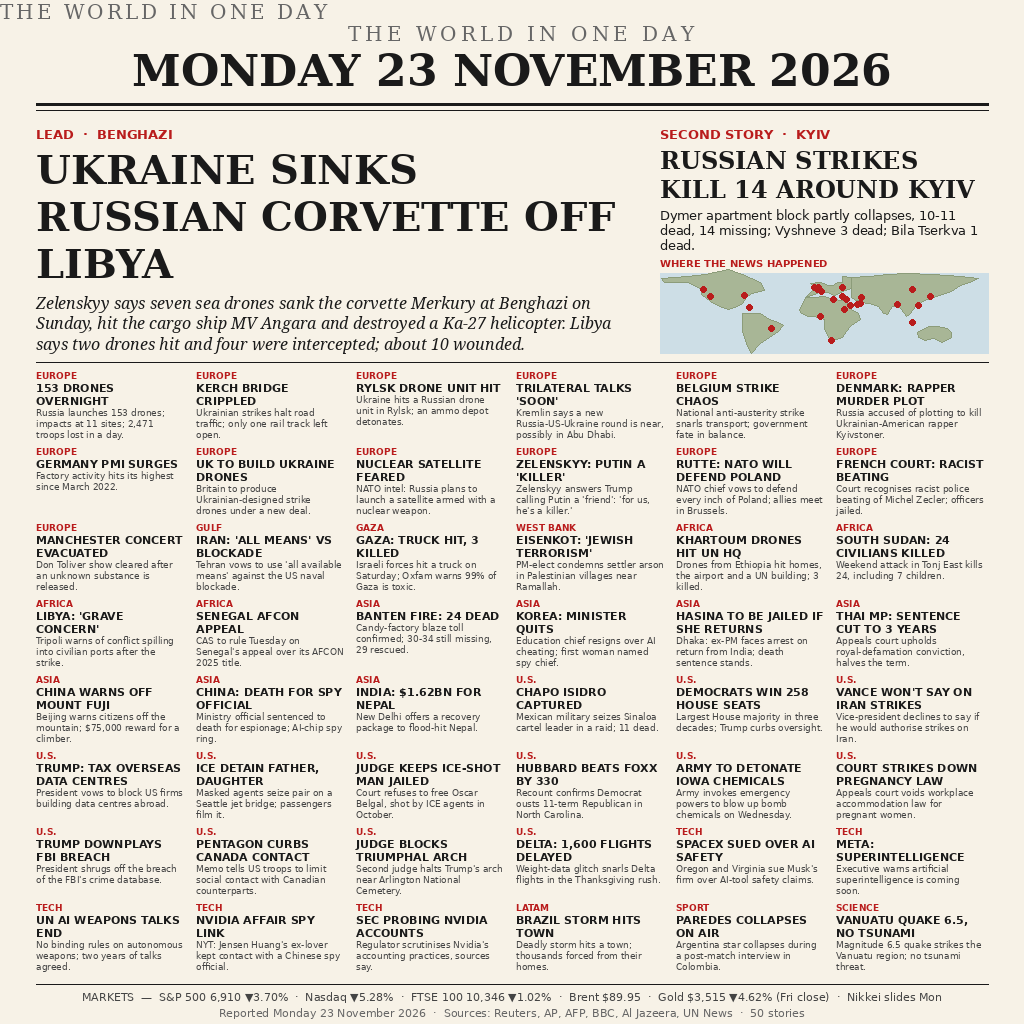
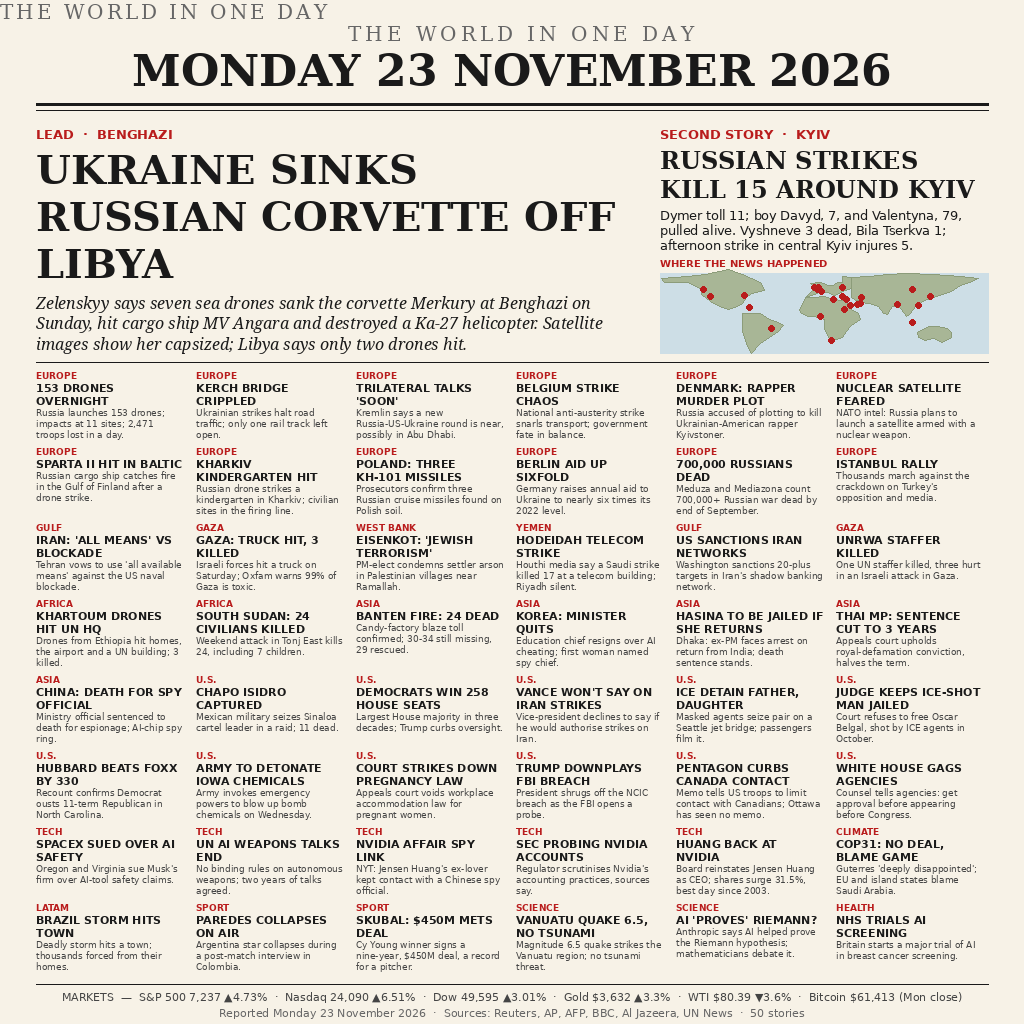
news-image-20261123 v2: full-day edition, 50 stories, Monday-close markets

Changed region(s): [[0.0312, 0.375, 0.9688, 1.0], [0.625, 0.1875, 0.9375, 0.25], [0.0312, 0.3125, 0.5938, 0.3438]]

diff --git a/README.md b/README.md
@@ -4,7 +4,7 @@
 [![rank](https://make.fun/badge/news-image-20261123/pytraaa9-ai/news-image-20261123/rank.svg)](https://make.fun/bounty/news-image-20261123/leaderboard?utm_source=github&utm_medium=readme&utm_campaign=news-image-20261123)
 [![reward](https://make.fun/badge/news-image-20261123/pytraaa9-ai/news-image-20261123/reward.svg)](https://make.fun/bounty/news-image-20261123?utm_source=github&utm_medium=readme&utm_campaign=news-image-20261123)
 
-A program that writes one image summing up Monday 23 November 2026 world news — a newspaper front page (1024×1024 PNG): lead story Ukraine sinks the Russian corvette Merkury off Libya, second story Russian strikes kill 14 around Kyiv, plus 48 more stories across six continents, a world map, and Friday's market close with Monday's Nikkei slide. Full-day edition, v1 — 50 stories.
+A program that writes one image summing up Monday 23 November 2026 world news — a newspaper front page (1024×1024 PNG): lead story Ukraine sinks the Russian corvette Merkury off Libya, second story Russian strikes kill 15 around Kyiv, plus 48 more stories across six continents, a world map, and Monday's market close with the Nvidia-led rebound. Full-day edition, v2 — 50 stories.
 
 ## Run it
 
@@ -14,56 +14,56 @@ mkdir -p out && MAKEFUN_OUTPUT_DIR=out python3 main.py
 
 ## The day's news
 
-- **Lead:** Ukraine sinks Russian corvette off Libya — Zelenskyy says seven sea drones sank the corvette Merkury at Benghazi on Sunday, hit the cargo ship MV Angara and destroyed a Ka-27 helicopter. Libya says two drones hit and four were intercepted; about 10 wounded.
-- **Second story:** Russian strikes kill 14 around Kyiv — Dymer apartment block partly collapses, 10-11 dead, 14 missing; Vyshneve 3 dead; Bila Tserkva 1 dead.
+- **Lead:** Ukraine sinks Russian corvette off Libya — Zelenskyy says seven sea drones sank the corvette Merkury at Benghazi on Sunday, hit cargo ship MV Angara and destroyed a Ka-27 helicopter. Satellite images show her capsized; Libya says only two drones hit.
+- **Second story:** Russian strikes kill 15 around Kyiv — Dymer toll 11; boy Davyd, 7, and Valentyna, 79, pulled alive. Vyshneve 3 dead, Bila Tserkva 1; afternoon strike in central Kyiv injures 5.
 - 153 drones overnight: Russia launches 153 drones; impacts at 11 sites; 2,471 troops lost in a day.
 - Kerch Bridge crippled: Ukrainian strikes halt road traffic; only one rail track left open.
-- Rylsk drone unit hit: Ukraine hits a Russian drone unit in Rylsk; an ammo depot detonates.
 - Trilateral talks 'soon': Kremlin says a new Russia-US-Ukraine round is near, possibly in Abu Dhabi.
 - Belgium strike chaos: National anti-austerity strike snarls transport; government fate in balance.
 - Denmark: rapper murder plot: Russia accused of plotting to kill Ukrainian-American rapper Kyivstoner.
-- Germany PMI surges: Factory activity hits its highest since March 2022.
-- UK to build Ukraine drones: Britain to produce Ukrainian-designed strike drones under a new deal.
 - Nuclear satellite feared: NATO intel: Russia plans to launch a satellite armed with a nuclear weapon.
-- Zelenskyy: Putin a 'killer': Zelenskyy answers Trump calling Putin a 'friend': 'for us, he's a killer.'
-- Rutte: NATO will defend Poland: NATO chief vows to defend every inch of Poland; allies meet in Brussels.
-- French court: racist beating: Court recognises racist police beating of Michel Zecler; officers jailed.
-- Manchester concert evacuated: Don Toliver show cleared after an unknown substance is released.
+- Sparta II hit in Baltic: Russian cargo ship catches fire in the Gulf of Finland after a drone strike.
+- Kharkiv kindergarten hit: Russian drone strikes a kindergarten in Kharkiv; civilian sites in the firing line.
+- Poland: three Kh-101 missiles: Prosecutors confirm three Russian cruise missiles found on Polish soil.
+- Berlin aid up sixfold: Germany raises annual aid to Ukraine to nearly six times its 2022 level.
+- 700,000 Russians dead: Meduza and Mediazona count 700,000+ Russian war dead by end of September.
+- Istanbul rally: Thousands march against the crackdown on Turkey's opposition and media.
 - Iran: 'all means' vs blockade: Tehran vows to use 'all available means' against the US naval blockade.
 - Gaza: truck hit, 3 killed: Israeli forces hit a truck on Saturday; Oxfam warns 99% of Gaza is toxic.
 - Eisenkot: 'Jewish terrorism': PM-elect condemns settler arson in Palestinian villages near Ramallah.
+- Hodeidah telecom strike: Houthi media say a Saudi strike killed 17 at a telecom building; Riyadh silent.
+- US sanctions Iran networks: Washington sanctions 20-plus targets in Iran's shadow banking network.
+- UNRWA staffer killed: One UN staffer killed, three hurt in an Israeli attack in Gaza.
 - Khartoum drones hit UN HQ: Drones from Ethiopia hit homes, the airport and a UN building; 3 killed.
 - South Sudan: 24 civilians killed: Weekend attack in Tonj East kills 24, including 7 children.
-- Libya: 'grave concern': Tripoli warns of conflict spilling into civilian ports after the strike.
-- Senegal AFCON appeal: CAS to rule Tuesday on Senegal's appeal over its AFCON 2025 title.
 - Banten fire: 24 dead: Candy-factory blaze toll confirmed; 30-34 still missing, 29 rescued.
 - Korea: minister quits: Education chief resigns over AI cheating; first woman named spy chief.
 - Hasina to be jailed if she returns: Dhaka: ex-PM faces arrest on return from India; death sentence stands.
 - Thai MP: sentence cut to 3 years: Appeals court upholds royal-defamation conviction, halves the term.
-- China warns off Mount Fuji: Beijing warns citizens off the mountain; $75,000 reward for a climber.
 - China: death for spy official: Ministry official sentenced to death for espionage; AI-chip spy ring.
-- India: $1.62bn for Nepal: New Delhi offers a recovery package to flood-hit Nepal.
 - Chapo Isidro captured: Mexican military seizes Sinaloa cartel leader in a raid; 11 dead.
 - Democrats win 258 House seats: Largest House majority in three decades; Trump curbs oversight.
 - Vance won't say on Iran strikes: Vice-president declines to say if he would authorise strikes on Iran.
-- Trump: tax overseas data centres: President vows to block US firms building data centres abroad.
 - ICE detain father, daughter: Masked agents seize pair on a Seattle jet bridge; passengers film it.
 - Judge keeps ICE-shot man jailed: Court refuses to free Oscar Belgal, shot by ICE agents in October.
 - Hubbard beats Foxx by 330: Recount confirms Democrat ousts 11-term Republican in North Carolina.
 - Army to detonate Iowa chemicals: Army invokes emergency powers to blow up bomb chemicals on Wednesday.
 - Court strikes down pregnancy law: Appeals court voids workplace accommodation law for pregnant women.
-- Trump downplays FBI breach: President shrugs off the breach of the FBI's crime database.
-- Pentagon curbs Canada contact: Memo tells US troops to limit social contact with Canadian counterparts.
-- Judge blocks triumphal arch: Second judge halts Trump's arch near Arlington National Cemetery.
-- Delta: 1,600 flights delayed: Weight-data glitch snarls Delta flights in the Thanksgiving rush.
+- Trump downplays FBI breach: President shrugs off the NCIC breach as the FBI opens a probe.
+- Pentagon curbs Canada contact: Memo tells US troops to limit contact with Canadians; Ottawa has seen no memo.
+- White House gags agencies: Counsel tells agencies: get approval before appearing before Congress.
 - SpaceX sued over AI safety: Oregon and Virginia sue Musk's firm over AI-tool safety claims.
-- Meta: superintelligence: Executive warns artificial superintelligence is coming soon.
 - UN AI weapons talks end: No binding rules on autonomous weapons; two years of talks agreed.
 - Nvidia affair spy link: NYT: Jensen Huang's ex-lover kept contact with a Chinese spy official.
 - SEC probing Nvidia accounts: Regulator scrutinises Nvidia's accounting practices, sources say.
+- Huang back at Nvidia: Board reinstates Jensen Huang as CEO; shares surge 31.5%, best day since 2003.
+- COP31: no deal, blame game: Guterres 'deeply disappointed'; EU and island states blame Saudi Arabia.
 - Brazil storm hits town: Deadly storm hits a town; thousands forced from their homes.
 - Paredes collapses on air: Argentina star collapses during a post-match interview in Colombia.
+- Skubal: $450M Mets deal: Cy Young winner signs a nine-year, $450M deal, a record for a pitcher.
 - Vanuatu quake 6.5, no tsunami: Magnitude 6.5 quake strikes the Vanuatu region; no tsunami threat.
+- AI 'proves' Riemann?: Anthropic says AI helped prove the Riemann hypothesis; mathematicians debate it.
+- NHS trials AI screening: Britain starts a major trial of AI in breast cancer screening.
 
 All stories were verified against at least two reputable sources
 (Reuters, AP, AFP, BBC, Al Jazeera, UN News) on 23 November 2026.
